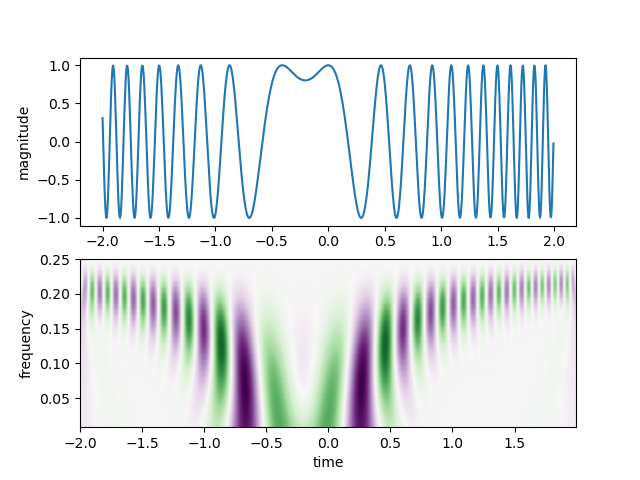
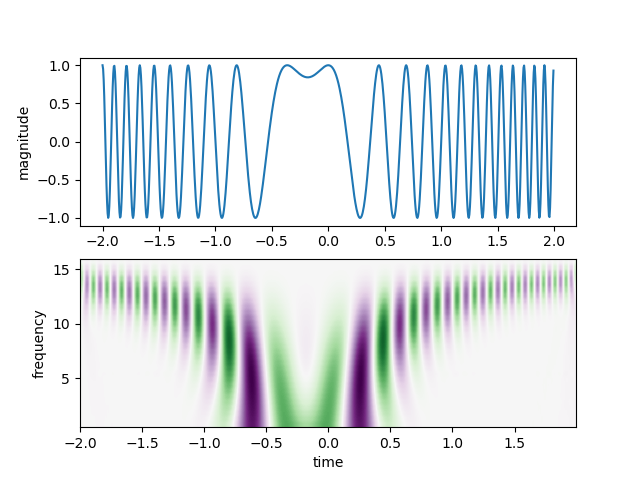
update figures.

diff --git a/examples/wavelet_packet_chirp_analysis/chirp_analysis.py b/examples/wavelet_packet_chirp_analysis/chirp_analysis.py
@@ -18,7 +18,7 @@ nodes = wp.get_level(5)
 np_lst = []
 for node in nodes:
     np_lst.append(wp[node])
-viz = np.stack(np_lst)
+viz = np.stack(np_lst).squeeze()
 
 fig, axs = plt.subplots(2)
 axs[0].plot(t, w)
